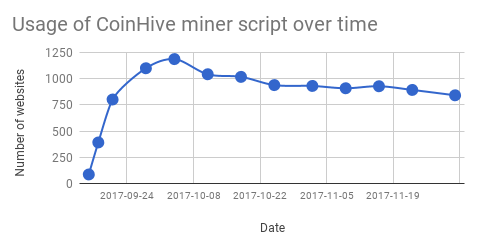
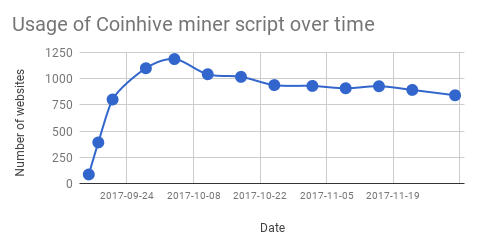
soft edit on ethics, chart typo fix and some other changes

Changed region(s): [[0.2642, 0.0567, 0.7925, 0.1417]]

diff --git a/Paper/sections/body.tex b/Paper/sections/body.tex
@@ -151,20 +151,26 @@ This experiment showed that even though the number of users visiting was signifi
 
 \section{Ethical Considerations}
 
-The opinion of the authors of this paper maintain that users should be given the option to enable the miner code in their browser only with some benefit to their experience on the website.  An example of a benefit could be the removal of advertisements. Recent polls support this notion, such as the one conducted by Bleeping Computer, which found that ``many users said they are OK with websites mining Monero in the background if they don`t see ads anymore''~\cite{bleepingcomputerminers}. Another example would be granting access to premium features of the website such as journal articles behind a paywall, or streaming in high-definition. The website could also allow the user to participate in mining rewards by allocating a large portion of their CPU resources to the activity of mining, which would benefit both parties. By notifying the user of the potentials of such activity, and allowing them to make a choice to participate, the website maintains trust in their relationship with the user while also benefiting from a new source of revenue. By foregoing disclaiming this new activity, which can have harmful effects, the website will gain a new revenue stream for a short time only while sacrificing their reputation in the long term. Coinhive`s recent response to the market`s negative reaction by releasing AuthedMine, which enforces user consent before enabling any mining JavaScript code, justifies this rationale. However, before consented browser mining could develop into a sustainable model, its security implications and user impact should be addressed.
-Browser developers are starting to talk about throttling or blocking such scripts\footnote{Please consider intervention for high cpu usage js \url{https://bugs.chromium.org/p/chromium/issues/detail?id=766068}}, however this discussion need further considerations as throttling should happen based on some variables, in which might affect legitimate applications as well. Also if they switch to user notification for high CPU usage per website, the notification itself might not be affective as desired~\cite{SHB11}\cite{SEAAC09}.
+The opinion of the authors of this paper maintain that users should be given the option to enable the miner code in their browser only with some benefit to their experience on the website. Recent polls support this notion, such as the one conducted by Bleeping Computer, which found that ``many users said they are OK with websites mining Monero in the background if they don`t see ads anymore''~\cite{bleepingcomputerminers}. Another example would be granting access to premium features of the website such as journal articles behind a paywall, or streaming in high-definition. The website could also allow the user to participate in mining rewards by allocating a large portion of their CPU resources to the activity of mining, which would benefit both parties. By notifying the user of the potentials of such activity, and allowing them to make a choice to participate, the website maintains trust in their relationship with the user while also benefiting from a new source of revenue. By foregoing disclaiming this new activity, which can have harmful effects, the website will gain a new revenue stream for a short time only while sacrificing their reputation in the long term. Coinhive`s recent response to the market`s negative reaction by releasing AuthedMine, which enforces user consent before enabling any mining JavaScript code, justifies this rationale. However, before consented browser mining could develop into a sustainable model, its security implications and user impact should be addressed.
 
-Coinhive as a big player in the recent rise of in-browser mining, introduced its functionality as a replacement for online advertisement, a new way to monetize website`s traffic. However this will result in a paradigm shift in website monetization. As an example in both auction-based and keyword-based online advertisement, the advertiser pays the ad publisher to distribute the ads and the ad publisher pays a portion of the revenues to the website owner whom the ad was shown on her website~\cite{king2007internet}. However in in-browser mining as a replacement monetization strategy, user is technically paying for the visit on their hydro (electricity) bill, in which the consent of the user becomes an ethical issue. As the concept of traffic revenue begins to change, the values associated with the old concept will have to be reexamined. Moor, in "What is Computer Ethics?" ~\cite{moor1985computer} introduces the concept of \textit{Invisible Factor}, for invisible computer operations in society. Based on his definitions cryptojacking falls under \textit{Invisible abuse}\footnote{The intentional use of the invisible operations of a computer to engage in unethical conduct}. Here the cryptojacker is earning money from unaware users that are being charged on their hydro bill. 
+Browser developers are starting to talk about throttling or blocking such scripts\footnote{Please consider intervention for high cpu usage js \url{https://bugs.chromium.org/p/chromium/issues/detail?id=766068}}  ~\cite{operanocoin}, however this discussion need further considerations as throttling should happen based on some variables, in which might affect legitimate applications as well. Also if they switch to user notification for high CPU usage per website, the notification itself might not be affective as desired~\cite{SHB11}\cite{SEAAC09}.
 
-Most browser mining code is ran without the consent, nor knowledge, of the users involved. As previously mentioned, the websites that have been found running JavaScript code for the purpose of mining usually employed Coinhive`s API. One such website, for example, ThePirateBay.org~\cite{bbcmintcrypto}, which ran the JavaScript code when users searched for torrent files. Perhaps unsurprisingly, there was no notice in their Privacy Policy nor visible warning on any part of the website that informed their users of this activity. This resulted in a backlash against the website, which responded with the following statement, ``Do you want ads or do you want to give away a few of your CPU cycles every time you visit the site?'' ~\cite{piratesbayblog}. While they admitted to their testing of browser mining, their notice came after the fact and resulted in the removal of the JavaScript code altogether due to upset users. This is in contrast to the banners users are presented with upon the first visit to a website that warns them of the website`s policy on cookies, which is enforced today through EU laws~\cite{eucookie}. It is now widely known that these cookies can be used to track users across the internet, so cookie banners can act as a reminder and allow the user to make better informed decisions regarding their browsing habits. Without any type of disclaimer for users, websites have been commandeering their users` CPU resources for their business and personal gain. This results in higher energy bills for the user, along with accelerated device degradation, slower system performance, and poor web experience\footnote{The Performance Impact of Cryptocurrency Mining on the Web \url{https://discuss.httparchive.org/t/the-performance-impact-of-cryptocurrency-mining-on-the-web/1126}}~\cite{gaurdianelectricity}.
+Coinhive as a big player in the recent rise of in-browser mining, introduced its functionality as a replacement for online advertisement, a new way to monetize website`s traffic. However this will result in a paradigm shift in website monetization. As an example in both auction-based and keyword-based online advertisement, the advertiser pays the ad publisher to distribute the ads and the ad publisher pays a portion of the revenues to the website owner whom the ad was shown on her website~\cite{king2007internet}. However in in-browser mining as a replacement monetization strategy, user is technically paying for their website visit on their hydro (electricity) bill, in which the consent of the user becomes an ethical issue. 
 
-A second example of a popular website deploying Coinhive�s API is Showtime.com, which is a popular cable channel that also streams their TV shows online. Showtime has declined to comment on how or why Coinhive was implemented on their website. Speculation has been raised that it was injected via an third-party analytics tool, New Relic, due to Coinhive being found inside the New Relic code block within website's source code. However a New Relic representative denied these claims in a statement to The Register, "It appears they [Coinhive scripts] were added to the website by its [Showtime's] developers." ~\cite{registershowtime}. 
+As the concept of website traffic revenue begins to change, the values associated with the old concept will have to be reexamined. Moor, in "What is Computer Ethics?" ~\cite{moor1985computer} introduces the concept of \textit{Invisible Factor}, for invisible computer operations in society. Based on his definitions cryptojacking falls under \textit{Invisible abuse}, the intentional use of the invisible operations of a computer to engage in unethical conduct. Here the cryptojacker is earning money from unaware users that are being charged on their hydro bill. 
 
+%TODO: this paragraph can be shortened. the point is the story of piratesbay and how they dealth with it
+Most browser mining code is ran without the consent, nor knowledge, of the users involved. As previously mentioned, the websites that have been found running JavaScript code for the purpose of mining usually employed Coinhive`s API. One such website, for example, ThePirateBay.org~\cite{bbcmintcrypto}, which ran the JavaScript code when users searched for torrent files. Perhaps unsurprisingly, there was no notice in their Privacy Policy nor visible warning on any part of the website that informed their users of this activity. This resulted in a backlash against the website, which responded with the following statement, ``Do you want ads or do you want to give away a few of your CPU cycles every time you visit the site?'' ~\cite{piratesbayblog}. While they admitted to their testing of browser mining, their notice came after the fact and resulted in the removal of the JavaScript code altogether due to upset users. This is in contrast to the banners users are presented with upon the first visit to a website that warns them of the website`s policy on cookies, which is enforced today through EU laws~\cite{eucookie}. It is now widely known that these cookies can be used to track users across the internet, so cookie banners can act as a reminder and allow the user to make better informed decisions regarding their browsing habits. Without any type of disclaimer for users, websites have been commandeering their users` CPU resources for their business and personal gain. This results in higher energy bills for the user, along with accelerated device degradation, slower system performance, and poor web experience~\cite{httparchiveminingimpact}\cite{gaurdianelectricity}.
+
+
+%TODO: the next two paraphraphs also has been talked about before. can combine both together.
+A second example of a popular website deploying Coinhive`s API is Showtime.com, which is a popular cable channel that also streams their TV shows online. Showtime has declined to comment on how or why Coinhive was implemented on their website. Speculation has been raised that it was injected via an third-party analytics tool, New Relic, due to Coinhive being found inside the New Relic code block within website's source code. However a New Relic representative denied these claims in a statement to The Register, "It appears they [Coinhive scripts] were added to the website by its [Showtime's] developers." ~\cite{registershowtime}. 
 It was then hardly surprising when UFC.com was accused of using this very same code on the night of streaming one of their most popular events~\cite{registerufcmonero}. In a statement released by the UFC, they denied the presence of the code stating, ``[they] did not find any reference to the mentioned Coinhive JavaScript [code]``\footnote{\url{https://twitter.com/bad_packets/status/928044219222048769}}.
  
 The recent trend of streaming websites deploying Coinhive's API could be due to the high costs of providing streaming services. While ads can be used to offset some of those costs, it would be of interest to some to at least experiment with the idea of recruiting their users to mine Monero for profit. This same regard is true for hackers looking to maximize their cryptojacking profits. The longer a user is engaged on a website, such as video streaming service, the more income can be earned through browser mining.
 
-Given the recent interest some websites have shown in regard to browser mining, there is also potential for this new form of revenue generation to compete with advertisements. As seen in section~\ref{profitabilitexperiment}, an immediate impact could be to reduce how many ads a user sees on a given website. Moving forward websites with long user sessions such as streaming services could one day even replace ads. This is because the malware that is associated with advertisements is still a growing concern, and the public`s dislike of advertisements will likely persist and not wane. Also, as cryptocurrencies continue to grow in market capitalization and use cases, their inevitable mainstream use will push the profitability of mining egalitarian proof-of-work cryptocurrencies, such as Monero, well into the future. There are many ongoing discussions on the potential of browser mining one day replacing online advertisement\footnote{Carl Whalley - Could cryptocurrency kill online advertising \url{https://www.linkedin.com/pulse/could-cryptocurrency-kill-online-advertising-carl-whalley}}.
+Given the recent interest some websites have shown in regard to browser mining, there is also potential for this new form of revenue generation to compete with advertisements. As seen in section~\ref{profitabilitexperiment}, an immediate impact could be to reduce how many ads a user sees on a given website. Moving forward websites with long user sessions such as streaming services could one day even replace ads. This is because the malware that is associated with advertisements is still a growing concern, and the public`s dislike of advertisements will likely persist and not wane. Also, as cryptocurrencies continue to grow in market capitalization and use cases, their inevitable mainstream use will push the profitability of mining egalitarian proof-of-work cryptocurrencies, such as Monero, well into the future. 
+
 %The lack of regulation in cryptocurrency space allows for a grey market to grow. This is felt more when it affects non-tech-savvy users. 
 
 
